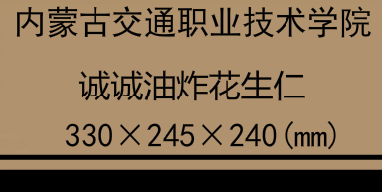
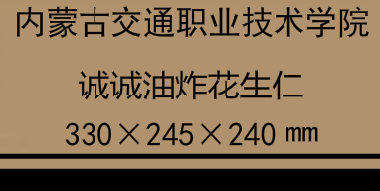
'123'

diff --git a/index.html b/index.html
@@ -42,7 +42,7 @@
             /*background-image: url("assets/title.png");*/
             /*margin-left:calc(50% - 150px);*/
             font-size: 50px !important;
-            margin-top: 15px;
+            margin-top: 40px;
         }
         .startBtn{
             width: 192px;
@@ -72,10 +72,19 @@
 
 <div id="app">
     <div class="startCon" v-if="startShow">
-        <div class="startTitle diff1">
-            <!--<a href="#material" class="button glossy back">模拟组托游戏</a>-->
-            模拟组托游戏
+
+        <div>
+            <div class="startTitle diff1">
+                <!--<a href="#material" class="button glossy back">模拟组托游戏</a>-->
+                模拟组托游戏
+            </div>
+            <div class="diff1" style="font-size: 25px;position: relative;top: -45px;">
+                <!--<a href="#material" class="button glossy back">模拟组托游戏</a>-->
+                内蒙古交通职业技术学院
+            </div>
+
         </div>
+
         <div class="startBtn" @click = "startShow=false">
             <a  class="button  glossy" data-icon="☜" style="width: 170px;">开始游戏</a>
         </div>
@@ -109,16 +118,19 @@
             <div style="padding: 0 10px;text-align: left">
                 <div style="margin-bottom: 10px">货品名称:<span style="margin-left: 10px">{{levelData[level].name}}</span></div>
                 <div style="margin-bottom: 10px">纸箱尺寸:<span style="margin-left: 10px">{{levelData[level].size}}</span></div>
-                <div style="margin-bottom: 10px">纸箱个数:<span style="margin-left: 10px">{{levelData[level].num}}</span></div>
-                <div style="margin-bottom: 10px">托盘尺寸:<span style="margin-left: 10px">1200×1000×160(mm)</span></div>
+                <div style="margin-bottom: 10px">纸箱个数:<span style="margin-left: 10px">{{levelData[level].num}}×4</span></div>
+                <div style="margin-bottom: 10px">托盘尺寸:<span style="margin-left: 10px">1200×1000×160</span></div>
                 <div style="margin-bottom: 20px">剩余时间:<span style="margin-left: 10px">{{countTime}}</span></div>
-                <!--<Divider>图纸</Divider>-->
-                <!--<Radio-group v-model="startType" type="button" style="margin-left: 15px;margin-bottom: 10px">-->
-                    <!--<Radio label="奇数层码放"></Radio>-->
-                    <!--<Radio label="偶数层码放"></Radio>-->
-                <!--</Radio-group>-->
-                <!--<img style="width: 100%" v-if="startType=='奇数层码放'"src="assets/1-1.png">-->
-                <!--<img style="width: 100%" v-if="startType=='偶数层码放'"src="assets/1-2.png">-->
+                <div v-if="showAddLayerBtn">
+                    <Divider>图纸</Divider>
+                    <Radio-group v-model="startType" type="button" style="margin-left: 15px;margin-bottom: 10px">
+                        <Radio label="奇数层码放"></Radio>
+                        <Radio label="偶数层码放"></Radio>
+                    </Radio-group>
+                    <img style="width: 100%" v-if="startType=='奇数层码放'"src="assets/1-1.png">
+                    <img style="width: 100%" v-if="startType=='偶数层码放'"src="assets/1-2.png">
+                </div>
+
             </div>
         </Card>
     </div>
@@ -155,7 +167,8 @@
                 showAddLayerBtn:false,
                 startShow:true,
                 tipMessage:'',
-                level:1
+                level:1,
+
             },
             mounted:function(){
                 this.newTime = (new Date()).getTime()+15*60*1000;

diff --git a/js/init3d.js b/js/init3d.js
@@ -760,7 +760,7 @@ var materialArr = [
     new THREE.MeshPhongMaterial({map: texture3}),
     new THREE.MeshPhongMaterial({map: texture4}),
     new THREE.MeshPhongMaterial({map: texture5}),
-    new THREE.MeshPhongMaterial({map: texture4})
+    new THREE.MeshPhongMaterial({map: texture5})
 ];
 //http://www.yanhuangxueyuan.com/Three.js_course/texture.html
 //6个材质对象组成的数组赋值给MeshFaceMaterial构造函数
@@ -773,7 +773,7 @@ var materialArr2 = [
     new THREE.MeshPhongMaterial({map: texture3_1}),
     new THREE.MeshPhongMaterial({map: texture4}),
     new THREE.MeshPhongMaterial({map: texture5}),
-    new THREE.MeshPhongMaterial({map: texture4})
+    new THREE.MeshPhongMaterial({map: texture5})
 ];
 var facematerial2 = new THREE.MeshFaceMaterial(materialArr2);
 
